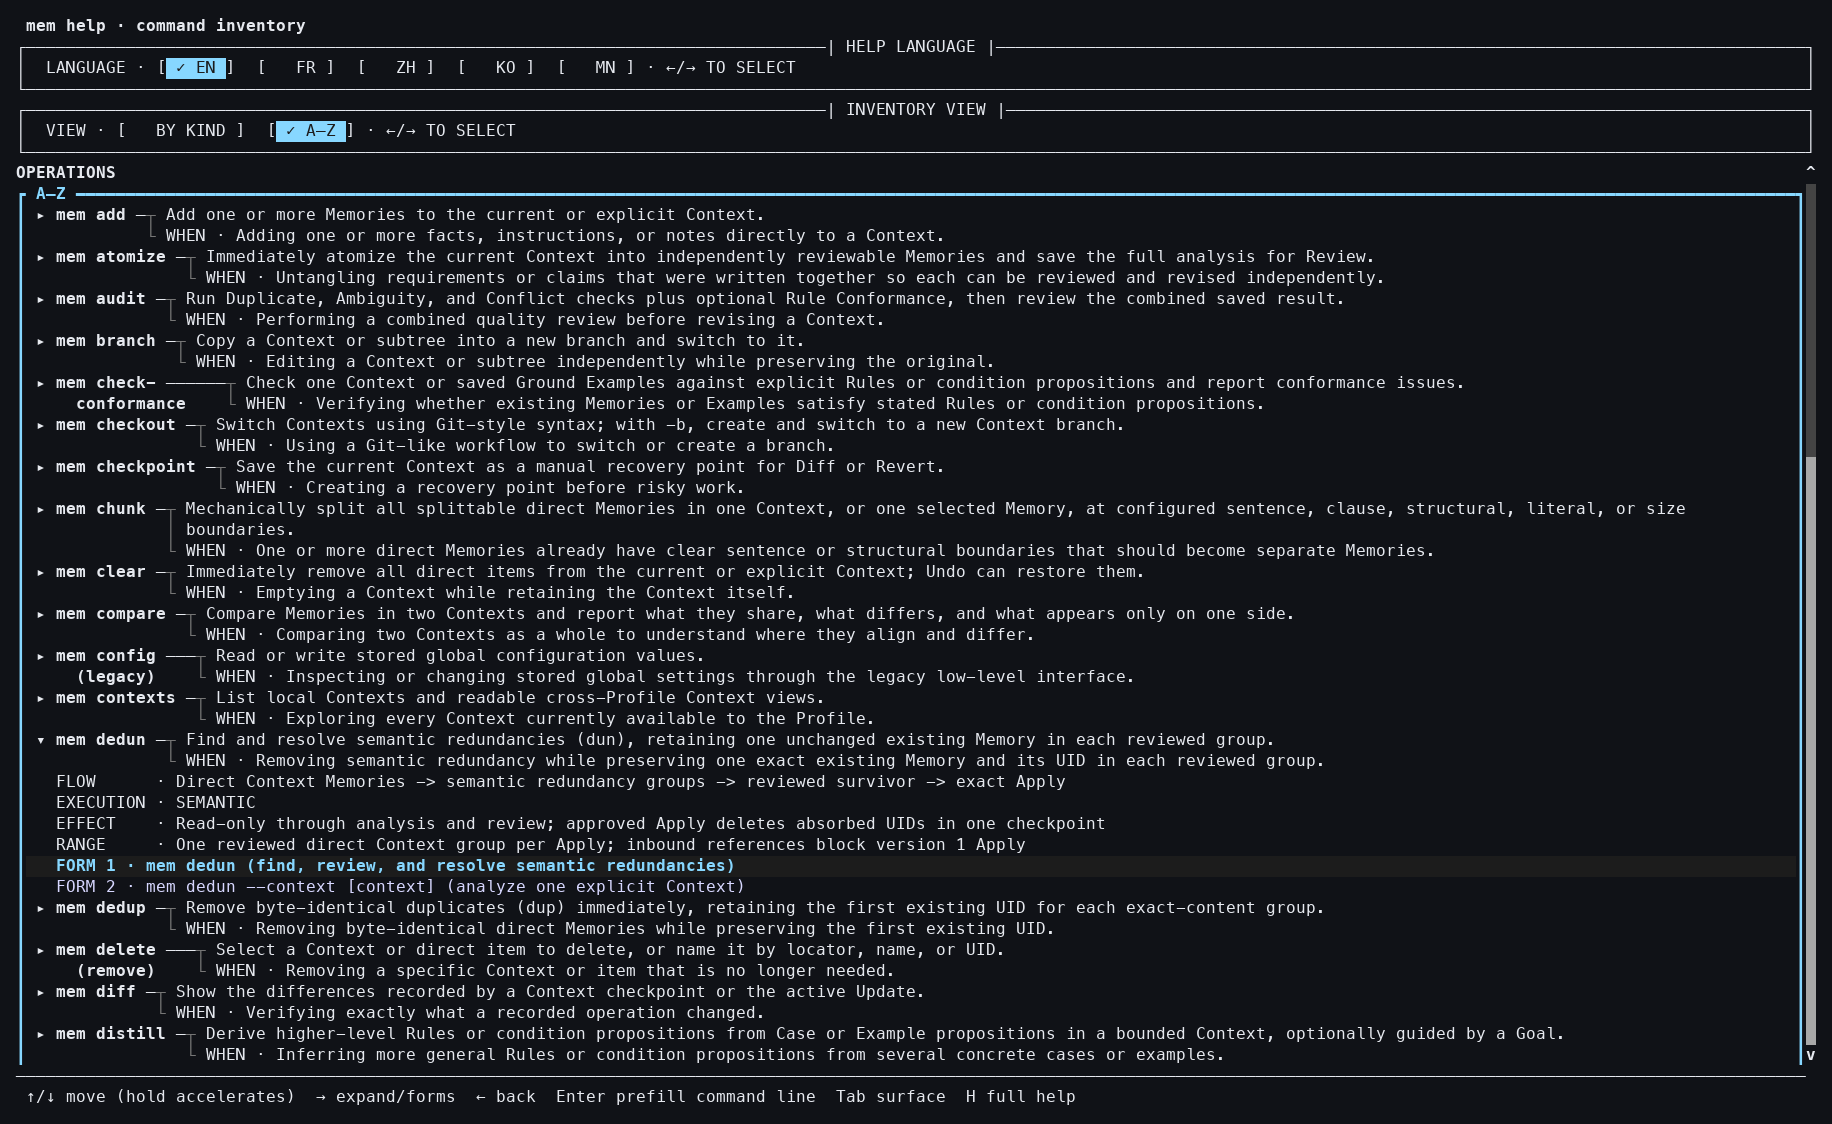
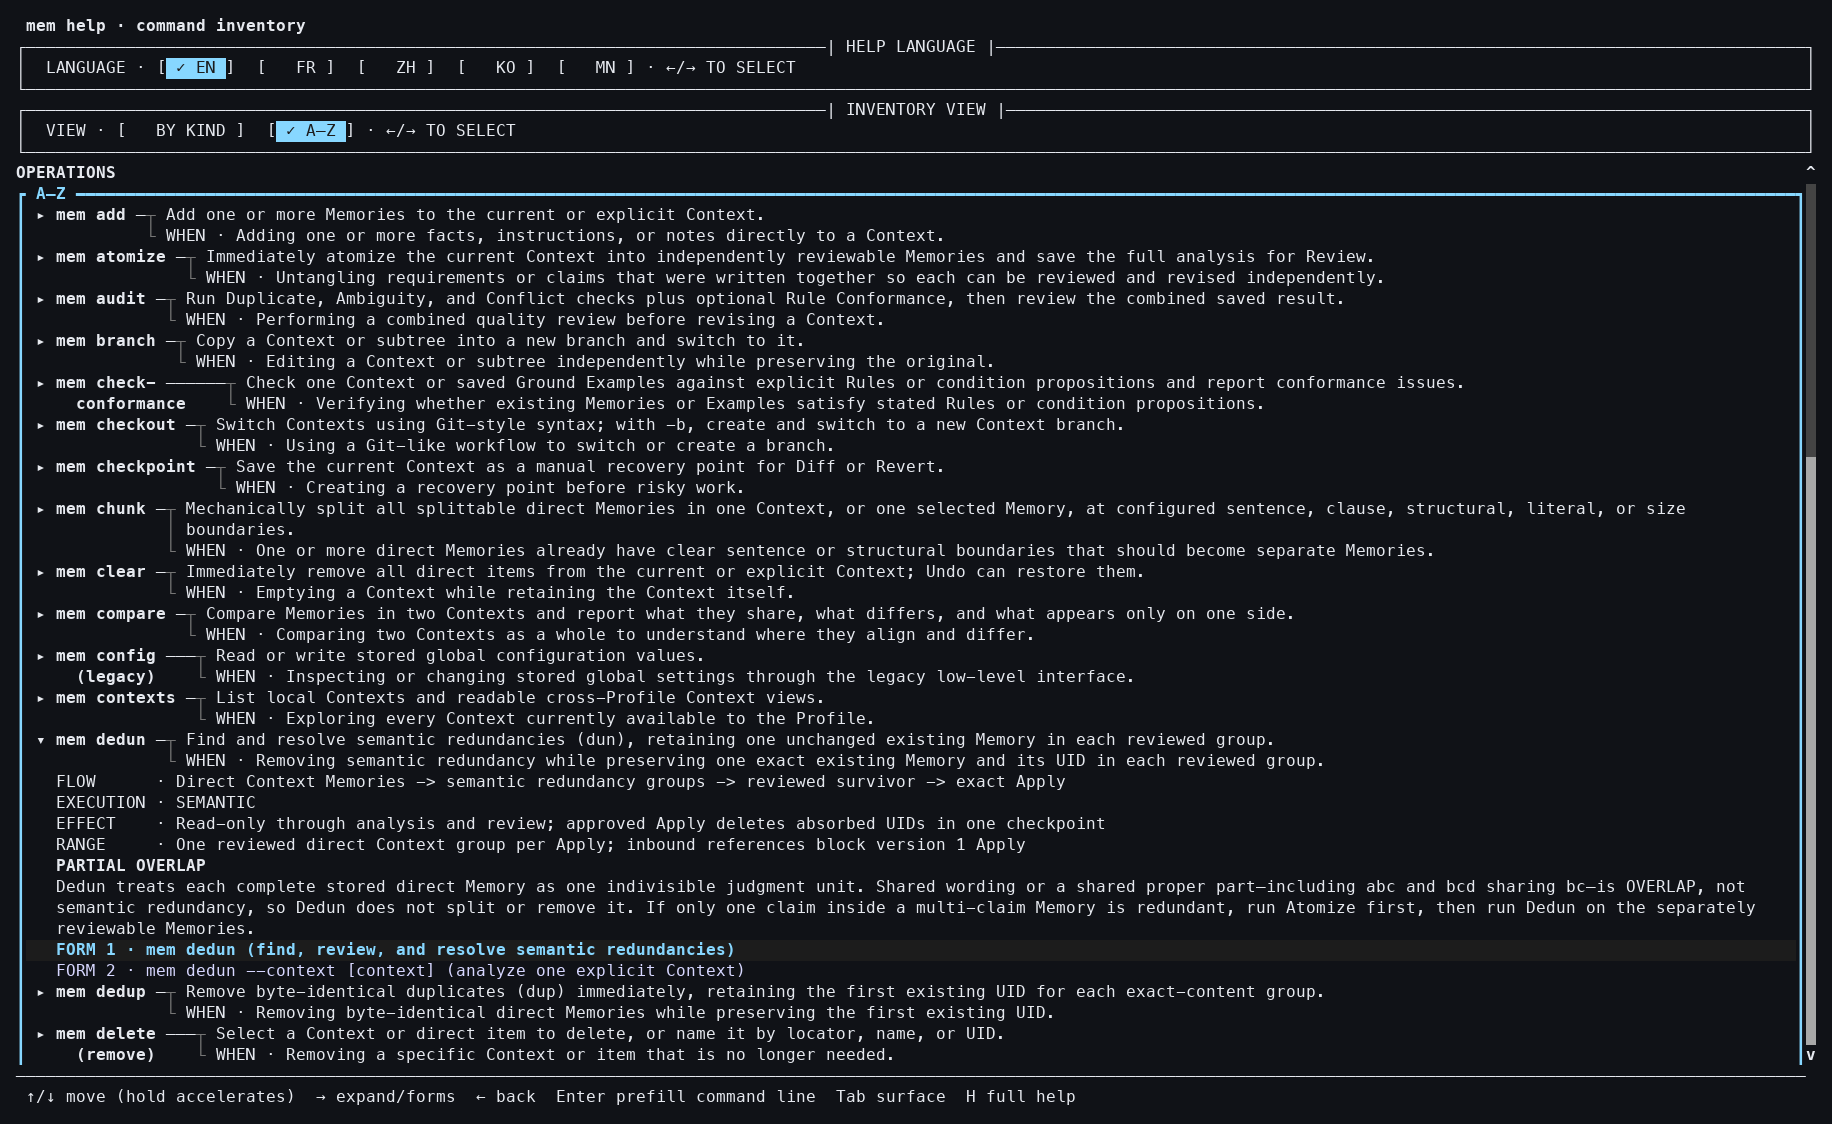
Expose Dedun partial-overlap boundary in Help
Add an individually addressable semantic-boundary note explaining that Dedun judges complete stored Memories, not shared substrings or isolated claims. The note directs compound content through Atomize first so Help cannot imply fragment deletion.

Keep the rule available during tool selection and in expanded terminal Help, cover both projections with tests, and refresh the ordered PTY evidence. This does not broaden Dedun: overlap remains non-removable and no claim extraction is introduced.

Changed region(s): [[0.0311, 0.7473, 0.9645, 0.9653], [0.6223, 0.8719, 0.7156, 0.9653], [0.7156, 0.903, 0.809, 0.9342]]

diff --git a/tests/test_dedun_help.py b/tests/test_dedun_help.py
@@ -1,0 +1,67 @@
+"""Public Help contracts for semantic Dedun's whole-Memory boundary."""
+
+import click
+from typer.main import get_command
+
+from memcommit.cli import app
+from memcommit.commands.help_inventory import _help_group_fragments, command_entries
+from memcommit.help_catalog import operation_help
+
+
+def _dedun_entry():
+    root = get_command(app)
+    context = click.Context(root)
+    try:
+        return next(
+            entry for entry in command_entries(context) if entry.name == "dedun"
+        )
+    finally:
+        context.close()
+
+
+def test_dedun_exposes_partial_overlap_as_a_tool_selection_boundary():
+    [detail] = operation_help("dedun").details
+
+    assert detail.id == "partial-overlap"
+    assert detail.kind.value == "SEMANTIC_BOUNDARY"
+    assert detail.discovery.value == "TOOL_SELECTION"
+    assert detail.discovery_summary == (
+        "Dedun judges complete stored Memories; partial-claim overlap requires "
+        "Atomize first."
+    )
+    assert "abc and bcd sharing bc" in detail.body
+    assert "OVERLAP, not semantic redundancy" in detail.body
+    assert "run Atomize first" in detail.body
+
+
+def test_partial_overlap_note_appears_only_in_expanded_dedun_help():
+    entry = _dedun_entry()
+    collapsed = "".join(
+        text
+        for _style, text in _help_group_fragments(
+            [(0, entry)],
+            title="A–Z",
+            width=180,
+            focused=True,
+            selected_index=0,
+            expanded_index=None,
+            selected_form=None,
+        )
+    )
+    expanded = "".join(
+        text
+        for _style, text in _help_group_fragments(
+            [(0, entry)],
+            title="A–Z",
+            width=180,
+            focused=True,
+            selected_index=0,
+            expanded_index=0,
+            selected_form=None,
+        )
+    )
+
+    assert "PARTIAL OVERLAP" not in collapsed
+    assert "PARTIAL OVERLAP" in expanded
+    assert "abc and bcd sharing bc" in expanded
+    assert "run Atomize first" in expanded

diff --git a/memcommit/help_catalog/details/dedun.py b/memcommit/help_catalog/details/dedun.py
@@ -1,0 +1,34 @@
+"""Detailed Help boundary for semantic Dedun."""
+
+from memcommit.help_catalog.model import (
+    DetailDiscovery,
+    HelpDetailKind,
+    OperationTextDetail,
+)
+
+
+DEDUN_DETAILS = (
+    OperationTextDetail(
+        id="partial-overlap",
+        operation="dedun",
+        title="PARTIAL OVERLAP",
+        use_when="Only wording or one claim inside a Memory overlaps another Memory.",
+        discovery=DetailDiscovery.TOOL_SELECTION,
+        discovery_summary=(
+            "Dedun judges complete stored Memories; partial-claim overlap requires "
+            "Atomize first."
+        ),
+        detail_kind=HelpDetailKind.SEMANTIC_BOUNDARY,
+        body=(
+            "Dedun treats each complete stored direct Memory as one indivisible "
+            "judgment unit. Shared wording or a shared proper part—including abc "
+            "and bcd sharing bc—is OVERLAP, not semantic redundancy, so Dedun does "
+            "not split or remove it. If only one claim inside a multi-claim Memory "
+            "is redundant, run Atomize first, then run Dedun on the separately "
+            "reviewable Memories."
+        ),
+    ),
+)
+
+
+__all__ = ["DEDUN_DETAILS"]

diff --git a/memcommit/help_catalog/details/registry.py b/memcommit/help_catalog/details/registry.py
@@ -5,6 +5,7 @@ from types import MappingProxyType
 from memcommit.help_catalog.details.add import ADD_DETAILS
 from memcommit.help_catalog.details.atomize import ATOMIZE_DETAILS
 from memcommit.help_catalog.details.check_conformance import CHECK_CONFORMANCE_DETAILS
+from memcommit.help_catalog.details.dedun import DEDUN_DETAILS
 from memcommit.help_catalog.details.distill import DISTILL_DETAILS
 from memcommit.help_catalog.details.eval import EVAL_DETAILS
 from memcommit.help_catalog.details.fit import FIT_DETAILS
@@ -26,6 +27,7 @@ _DETAIL_GROUPS = (
     ADD_DETAILS,
     ATOMIZE_DETAILS,
     CHECK_CONFORMANCE_DETAILS,
+    DEDUN_DETAILS,
     DISTILL_DETAILS,
     EVAL_DETAILS,
     FIT_DETAILS,

diff --git a/docs/screenshots/mem-dedup-dedun-help-20260820/capture.py b/docs/screenshots/mem-dedup-dedun-help-20260820/capture.py
@@ -52,6 +52,9 @@ def main() -> None:
     assert "▾ mem dedun" in dedun
     assert "EXECUTION · SEMANTIC" in dedun
     assert "semantic redundancy groups" in dedun
+    assert "PARTIAL OVERLAP" in dedun
+    assert "abc and bcd sharing bc" in dedun
+    assert "run Atomize first" in dedun
     assert "FORM 1 · mem dedun" in dedun
     assert "--evidence" not in dedun
 

diff --git a/tests/test_help_agent_adapter.py b/tests/test_help_agent_adapter.py
@@ -202,6 +202,7 @@ def test_schema_is_json_safe_and_bounds_describe_names_to_the_catalog():
         "materialization-routes",
         "operation-routes",
         "parent-contexts",
+        "partial-overlap",
         "query-only-access",
         "selection-routes",
         "structural-boundary",

diff --git a/docs/screenshots/mem-dedup-dedun-help-20260820/README.md b/docs/screenshots/mem-dedup-dedun-help-20260820/README.md
@@ -20,7 +20,7 @@ read-only.
 | Capture | Exact command | PTY | Profile / current Context | Preceding input | Visible state | Durable mutation |
 |---|---|---|---|---|---|---|
 | `01-adjacent-operations` | `mem help` | `180×52` | not consulted / not consulted | `Shift-Tab`, `Right` to A–Z, `Tab`, `Home`, `Down` ×12 | adjacent Dedun semantic summary and Dedup exact summary; old split operations absent | none |
-| `02-dedun-expanded` | same process | `180×52` | not consulted / not consulted | `Right` | semantic execution, redundancy-group flow, review-before-Apply effect, and only the simple `mem dedun` forms | none |
+| `02-dedun-expanded` | same process | `180×52` | not consulted / not consulted | `Right` | semantic execution, redundancy-group flow, the `PARTIAL OVERLAP` whole-Memory boundary with Atomize-first guidance, review-before-Apply effect, and only the simple `mem dedun` forms | none |
 | `03-dedup-expanded` | same process | `180×52` | not consulted / not consulted | `Left`, `Down`, `Right` | deterministic exact-content grouping, immediate checkpoint effect, and no provider/TUI boundary | none |
 
 Every numbered state has a raw `.typescript`, terminal-text `.txt`, and

diff --git a/docs/dedun-design-rationale.md b/docs/dedun-design-rationale.md
@@ -74,6 +74,11 @@ rule are complete in program logic. Dedun shows semantic evidence and an
 existing-survivor review because model judgment can be wrong. The semantic
 screen uses “redundancy group,” never “duplicate component.”
 
+Public Help exposes the indivisible-unit rule as the typed `partial-overlap`
+semantic-boundary note. This makes the Atomize-before-Dedun route discoverable
+when only one claim or a shared proper part overlaps, instead of implying that
+Dedun may remove a fragment from a stored Memory.
+
 Dedun version 1 does not synthesize canonical wording, migrate inbound
 references, atomize compound Memories, or apply one group across multiple
 Contexts. Rewriting belongs to Normalize, Meld, Update, or Fit Resolve;
